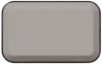
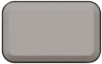
- Added new buttons and knob images, adjusted UI layout

diff --git a/AXIOM_Remote_Firmware_Visualizer/VirtualUI.cpp b/AXIOM_Remote_Firmware_Visualizer/VirtualUI.cpp
@@ -23,9 +23,25 @@ VirtualUI::VirtualUI(SDL_Window* window, uint32_t displayTextureID, uint32_t bac
     _window(window), _io(ImGui::GetIO()), _displayTextureID(reinterpret_cast<ImTextureID>(displayTextureID)),
     _backgroundTextureID(reinterpret_cast<ImTextureID>(backgroundTextureID))
 {
-    SDL_Surface* surface = IMG_Load("images/knob_clean.png");
+    SDL_Surface* surface = IMG_Load("images/knob.png");
     _knobTextureID = CreateGLTextureFromSurface(surface);
     SDL_FreeSurface(surface);
+
+    SDL_Surface* buttonTexture = IMG_Load("images/button_normal.png");
+    _buttonTextureID = (ImTextureID)CreateGLTextureFromSurface(buttonTexture);
+    SDL_FreeSurface(buttonTexture);
+
+    buttonTexture = IMG_Load("images/button_pressed.png");
+    _buttonPressedTextureID = (ImTextureID)CreateGLTextureFromSurface(buttonTexture);
+    SDL_FreeSurface(buttonTexture);
+
+    buttonTexture = IMG_Load("images/button_round_normal.png");
+    _buttonRoundTextureID = (ImTextureID)CreateGLTextureFromSurface(buttonTexture);
+    SDL_FreeSurface(buttonTexture);
+
+    buttonTexture = IMG_Load("images/button_round_pressed.png");
+    _buttonRoundPressedTextureID = (ImTextureID)CreateGLTextureFromSurface(buttonTexture);
+    SDL_FreeSurface(buttonTexture);
 
     surface = IMG_Load("images/camera_preview.png");
     _cameraPreviewTextureID = CreateGLTextureFromSurface(surface);
@@ -162,7 +178,7 @@ void VirtualUI::ShowZoomTooltip()
 
     ImGui::Image(_displayTextureID, ImVec2(textureWidth, textureHeight), ImVec2(0, 0), ImVec2(1, 1),
                  ImVec4(1.0f, 1.0f, 1.0f, 1.0f), ImVec4(1.0f, 1.0f, 1.0f, 0.5f));
-                 
+
     if (ImGui::IsItemHovered())
     {
         ImGui::BeginTooltip();
@@ -201,7 +217,7 @@ void VirtualUI::RenderCameraPreviewToFBO()
     glUniform1i(_cameraPreviewTexture, 0);
 
     float brightness = 0.1f * brightnessLevel;
-    std::cout << "Brightness: " << brightness << std::endl;
+    // std::cout << "Brightness: " << brightness << std::endl;
     glUniform1f(_analogGainShader, brightness);
 
     // glBindTexture(GL_TEXTURE_2D, 1); // (GLuint)(intptr_t)cmd->TextureId - 1);
@@ -290,58 +306,6 @@ void VirtualUI::RenderUI(Button& button, int8_t& knobValue, bool& debugOverlayEn
     ImGui::SetCursorPos(ImVec2(0, 0));
     ImGui::Image(_backgroundTextureID, ImVec2(800, 480));
 
-    if (RenderButton("1", 434, 70))
-    {
-        button = Button::BUTTON_1_UP;
-    }
-    if (RenderButton("2", 540, 70))
-    {
-        button = Button::BUTTON_2_UP;
-    }
-    if (RenderButton("3", 650, 70))
-    {
-        button = Button::BUTTON_3_UP;
-    }
-
-    if (RenderButton("4", 435, 380))
-    {
-        button = Button::BUTTON_4_UP;
-    }
-    if (RenderButton("5", 540, 380))
-    {
-        button = Button::BUTTON_5_UP;
-    }
-    if (RenderButton("6", 650, 380))
-    {
-        button = Button::BUTTON_6_UP;
-    }
-
-    if (RenderButton("7", 340, 176))
-    {
-        button = Button::BUTTON_7_UP;
-    }
-    if (RenderButton("8", 340, 226))
-    {
-        button = Button::BUTTON_8_UP;
-    }
-    if (RenderButton("9", 340, 276))
-    {
-        button = Button::BUTTON_9_UP;
-    }
-
-    if (RenderButton("10", 740, 176))
-    {
-        button = Button::BUTTON_10_UP;
-    }
-    if (RenderButton("11", 740, 226))
-    {
-        button = Button::BUTTON_11_UP;
-    }
-    if (RenderButton("12", 740, 276))
-    {
-        button = Button::BUTTON_12_UP;
-    }
-
     ImGui::SetCursorPos(ImVec2(40, 140));
     bool knobPressed = false;
     if (ImGui::Knob("Test123", value, knobPressed, (ImTextureID)_knobTextureID))
@@ -360,7 +324,101 @@ void VirtualUI::RenderUI(Button& button, int8_t& knobValue, bool& debugOverlayEn
         button = Button::E_1_UP;
     }
 
-    ImGui::SetCursorPos(ImVec2(338, 119));
+    uint16_t buttonWidth = 46;
+    uint16_t buttonHeight = 30;
+
+    uint16_t buttonRoundWidth = 30;
+    uint16_t buttonRoundHeight = 30;
+
+    // Special buttons (top-left)
+    ImGui::SetCursorPos(ImVec2(55, 22));
+    if (ImGui::CustomImageButton("SPECIAL_1", _buttonTextureID, _buttonPressedTextureID, ImVec2(buttonWidth, buttonHeight)))
+    {
+    }
+
+    ImGui::SetCursorPos(ImVec2(148, 22));
+    if (ImGui::CustomImageButton("SPECIAL_2", _buttonTextureID, _buttonPressedTextureID, ImVec2(buttonWidth, buttonHeight)))
+    {
+    }
+
+    // Buttons 1-3
+    ImGui::SetCursorPos(ImVec2(372, 55));
+    if (ImGui::CustomImageButton("1", _buttonTextureID, _buttonPressedTextureID, ImVec2(buttonWidth, buttonHeight)))
+    {
+        button = Button::BUTTON_1_UP;
+    }
+
+    ImGui::SetCursorPos(ImVec2(475, 55));
+    if (ImGui::CustomImageButton("2", _buttonTextureID, _buttonPressedTextureID, ImVec2(buttonWidth, buttonHeight)))
+    {
+        button = Button::BUTTON_2_UP;
+    }
+
+    ImGui::SetCursorPos(ImVec2(578, 55));
+    if (ImGui::CustomImageButton("3", _buttonTextureID, _buttonPressedTextureID, ImVec2(buttonWidth, buttonHeight)))
+    {
+        button = Button::BUTTON_3_UP;
+    }
+
+    // Button 4-6
+    ImGui::SetCursorPos(ImVec2(372, 395));
+    if (ImGui::CustomImageButton("4", _buttonTextureID, _buttonPressedTextureID, ImVec2(buttonWidth, buttonHeight)))
+    {
+        button = Button::BUTTON_4_UP;
+    }
+
+    ImGui::SetCursorPos(ImVec2(475, 395));
+    if (ImGui::CustomImageButton("5", _buttonTextureID, _buttonPressedTextureID, ImVec2(buttonWidth, buttonHeight)))
+    {
+        button = Button::BUTTON_5_UP;
+    }
+
+    ImGui::SetCursorPos(ImVec2(578, 395));
+    if (ImGui::CustomImageButton("6", _buttonTextureID, _buttonPressedTextureID, ImVec2(buttonWidth, buttonHeight)))
+    {
+        button = Button::BUTTON_6_UP;
+    }
+
+
+    // Button 7-9
+    ImGui::SetCursorPos(ImVec2(249, 170));
+    if (ImGui::CustomImageButton("7", _buttonRoundTextureID, _buttonRoundPressedTextureID, ImVec2(buttonRoundWidth, buttonRoundHeight)))
+    {
+        button = Button::BUTTON_7_UP;
+    }
+
+    ImGui::SetCursorPos(ImVec2(249, 225));
+    if (ImGui::CustomImageButton("8", _buttonRoundTextureID, _buttonRoundPressedTextureID, ImVec2(buttonRoundWidth, buttonRoundHeight)))
+    {
+        button = Button::BUTTON_8_UP;
+    }
+
+    ImGui::SetCursorPos(ImVec2(249, 281));
+    if (ImGui::CustomImageButton("9", _buttonRoundTextureID, _buttonRoundPressedTextureID, ImVec2(buttonRoundWidth, buttonRoundHeight)))
+    {
+        button = Button::BUTTON_9_UP;
+    }
+
+    // Button 10-12
+    ImGui::SetCursorPos(ImVec2(717, 170));
+    if (ImGui::CustomImageButton("10", _buttonRoundTextureID, _buttonRoundPressedTextureID, ImVec2(buttonRoundWidth, buttonRoundHeight)))
+    {
+        button = Button::BUTTON_10_UP;
+    }
+
+    ImGui::SetCursorPos(ImVec2(717, 225));
+    if (ImGui::CustomImageButton("8", _buttonRoundTextureID, _buttonRoundPressedTextureID, ImVec2(buttonRoundWidth, buttonRoundHeight)))
+    {
+        button = Button::BUTTON_11_UP;
+    }
+
+    ImGui::SetCursorPos(ImVec2(717, 281));
+    if (ImGui::CustomImageButton("9", _buttonRoundTextureID, _buttonRoundPressedTextureID, ImVec2(buttonRoundWidth, buttonRoundHeight)))
+    {
+        button = Button::BUTTON_12_UP;
+    }
+
+    ImGui::SetCursorPos(ImVec2(337, 119));
     ShowZoomTooltip();
 
     ImGui::SetCursorPos(ImVec2(50, 400));

diff --git a/AXIOM_Remote_Firmware_Visualizer/imgui_modules/imgui_user.h b/AXIOM_Remote_Firmware_Visualizer/imgui_modules/imgui_user.h
@@ -166,5 +166,39 @@ void ToggleButton(const char* str_id, const char* label, bool* v)
     ImU32 col32text = ImGui::GetColorU32(ImGuiCol_Text);
     draw_list->AddText(textpos, col32text, label);
 }
+
+bool CustomImageButton(const char* id, ImTextureID texture_id, ImTextureID pressed_texture_id, const ImVec2& size,
+                       const ImVec2& uv0 = ImVec2(0, 0), const ImVec2& uv1 = ImVec2(1, 1))
+{
+    ImGuiContext& g = *GImGui;
+    ImGuiWindow* window = GetCurrentWindow();
+    if (window->SkipItems)
+        return false;
+
+    const ImRect bb(window->DC.CursorPos, window->DC.CursorPos + size);
+    ItemSize(bb);
+    if (!ItemAdd(bb, GetID(id)))
+    {
+        return false;
+    }
+
+    bool hovered, held;
+    bool pressed = ButtonBehavior(bb, GetID(id), &hovered, &held, ImGuiButtonFlags_PressedOnClickRelease);
+
+    ImU32 tint = IM_COL32(200, 200, 200, 255);
+    if (hovered)
+    {
+        tint = IM_COL32(255, 255, 255, 255);
+    }
+    if (hovered && held)
+    {
+        texture_id = pressed_texture_id;
+    }
+
+    window->DrawList->AddImage(texture_id, bb.Min, bb.Max, uv0, uv1, tint);
+
+    return pressed;
+}
+
 } // namespace ImGui
 #endif // IMGUI_USER_H

diff --git a/AXIOM_Remote_Firmware_Visualizer/VirtualUI.h b/AXIOM_Remote_Firmware_Visualizer/VirtualUI.h
@@ -18,6 +18,11 @@ class VirtualUI {
     uint32_t _knobTextureID;
     ImTextureID _displayTextureID;
     ImTextureID _backgroundTextureID;
+    
+    ImTextureID _buttonTextureID;
+    ImTextureID _buttonPressedTextureID;
+    ImTextureID _buttonRoundTextureID;
+    ImTextureID _buttonRoundPressedTextureID;
 
     uint32_t _cameraPreviewTextureID;
 
